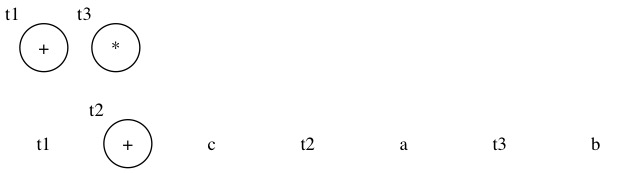
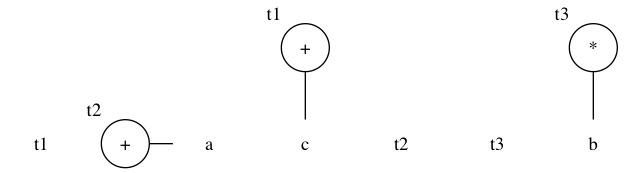
On lie maintenant les node avec certains child, mais pas de node a node et il manque les index de node

diff --git a/TP5/PrintExpressionDAGVisitor.java b/TP5/PrintExpressionDAGVisitor.java
@@ -3,6 +3,9 @@ import java.util.HashMap;
 import java.io.PrintWriter;
 import java.io.IOException;
 
+
+
+
 public class PrintExpressionDAGVisitor implements ParserVisitor
 {
 
@@ -10,7 +13,8 @@ public class PrintExpressionDAGVisitor implements ParserVisitor
   HashSet<String> m_nodes = new HashSet<String>();
   HashSet<String> m_leafs = new HashSet<String>();
   HashSet<String> m_links = new HashSet<String>();
-
+  String enfant = "";
+  String myid = "";
   String m_outputFileName = null;
   PrintWriter m_writer = null;
 
@@ -89,10 +93,16 @@ public class PrintExpressionDAGVisitor implements ParserVisitor
     node.childrenAccept(this, null);
 
     ASTIdentifier assigned = (ASTIdentifier)node.jjtGetChild(0);
-
+    //System.out.print(assigned.getValue());
     addNode(String.valueOf(m_nodes.size()), node.getOp(), assigned.getValue());
-
+    
+    String parent = node.jjtGetChild(0).jjtAccept(this, data).toString();
+    String operation = node.getOp().toString();
+    System.out.print(myid);
+    addLink(myid, enfant);
+    
     // TODO:: Comment lier le noeud à ces enfants?
+    //System.out.print(enfant);
     // TODO:: Comment fusionner ce noeud a un autre si si l'expression est identique?
 
     return null;
@@ -106,6 +116,12 @@ public class PrintExpressionDAGVisitor implements ParserVisitor
     ASTIdentifier assigned = (ASTIdentifier)node.jjtGetChild(0);
 
     addNode(String.valueOf(m_nodes.size()), "minus", assigned.getValue());
+
+
+    //String enfant = "";
+
+    
+    
 
     // TODO:: Quoi faire lorsque le noeud est un unaire?
 
@@ -135,7 +151,12 @@ public class PrintExpressionDAGVisitor implements ParserVisitor
   public Object visit(ASTExpr node, Object data) {
   	node.childrenAccept(this, null);
 
-  	return null;
+    
+
+    enfant = node.jjtGetChild(0).jjtAccept(this, data).toString();
+    //System.out.print(enfant);
+
+  	return enfant;
   }
 
   // Paramètre data: On ne transmet rien aux enfants
@@ -143,7 +164,8 @@ public class PrintExpressionDAGVisitor implements ParserVisitor
   public Object visit(ASTIntValue node, Object data) {
     addLeaf(String.valueOf(node.getValue()));
 
-    return null;
+    //System.out.print(node.getValue());
+    return node.getValue();
   }
 
   // Paramètre data: On ne transmet rien aux enfants
@@ -153,7 +175,8 @@ public class PrintExpressionDAGVisitor implements ParserVisitor
     // Est-ce que ca peut causer des problèmes?
     addLeaf(node.getValue());
 
-    return null;
+    //System.out.print(node.getValue());
+    return node.getValue();
   }
 
   public void addLink(String id1, String id2)
@@ -177,6 +200,7 @@ public class PrintExpressionDAGVisitor implements ParserVisitor
   }
 
   public void addNode(String uniqueId, String label, String notation) {
+    myid = uniqueId;
     if(m_nodes.contains(uniqueId))
       return;
 

diff --git a/TP5/gen/PrintExpressionDAGVisitor.java b/TP5/gen/PrintExpressionDAGVisitor.java
@@ -3,6 +3,9 @@ import java.util.HashMap;
 import java.io.PrintWriter;
 import java.io.IOException;
 
+
+
+
 public class PrintExpressionDAGVisitor implements ParserVisitor
 {
 
@@ -10,7 +13,8 @@ public class PrintExpressionDAGVisitor implements ParserVisitor
   HashSet<String> m_nodes = new HashSet<String>();
   HashSet<String> m_leafs = new HashSet<String>();
   HashSet<String> m_links = new HashSet<String>();
-
+  String enfant = "";
+  String myid = "";
   String m_outputFileName = null;
   PrintWriter m_writer = null;
 
@@ -89,10 +93,16 @@ public class PrintExpressionDAGVisitor implements ParserVisitor
     node.childrenAccept(this, null);
 
     ASTIdentifier assigned = (ASTIdentifier)node.jjtGetChild(0);
-
+    //System.out.print(assigned.getValue());
     addNode(String.valueOf(m_nodes.size()), node.getOp(), assigned.getValue());
-
+    
+    String parent = node.jjtGetChild(0).jjtAccept(this, data).toString();
+    String operation = node.getOp().toString();
+    System.out.print(myid);
+    addLink(myid, enfant);
+    
     // TODO:: Comment lier le noeud à ces enfants?
+    //System.out.print(enfant);
     // TODO:: Comment fusionner ce noeud a un autre si si l'expression est identique?
 
     return null;
@@ -106,6 +116,12 @@ public class PrintExpressionDAGVisitor implements ParserVisitor
     ASTIdentifier assigned = (ASTIdentifier)node.jjtGetChild(0);
 
     addNode(String.valueOf(m_nodes.size()), "minus", assigned.getValue());
+
+
+    //String enfant = "";
+
+    
+    
 
     // TODO:: Quoi faire lorsque le noeud est un unaire?
 
@@ -135,7 +151,12 @@ public class PrintExpressionDAGVisitor implements ParserVisitor
   public Object visit(ASTExpr node, Object data) {
   	node.childrenAccept(this, null);
 
-  	return null;
+    
+
+    enfant = node.jjtGetChild(0).jjtAccept(this, data).toString();
+    //System.out.print(enfant);
+
+  	return enfant;
   }
 
   // Paramètre data: On ne transmet rien aux enfants
@@ -143,7 +164,8 @@ public class PrintExpressionDAGVisitor implements ParserVisitor
   public Object visit(ASTIntValue node, Object data) {
     addLeaf(String.valueOf(node.getValue()));
 
-    return null;
+    //System.out.print(node.getValue());
+    return node.getValue();
   }
 
   // Paramètre data: On ne transmet rien aux enfants
@@ -153,7 +175,8 @@ public class PrintExpressionDAGVisitor implements ParserVisitor
     // Est-ce que ca peut causer des problèmes?
     addLeaf(node.getValue());
 
-    return null;
+    //System.out.print(node.getValue());
+    return node.getValue();
   }
 
   public void addLink(String id1, String id2)
@@ -177,6 +200,7 @@ public class PrintExpressionDAGVisitor implements ParserVisitor
   }
 
   public void addNode(String uniqueId, String label, String notation) {
+    myid = uniqueId;
     if(m_nodes.contains(uniqueId))
       return;
 
